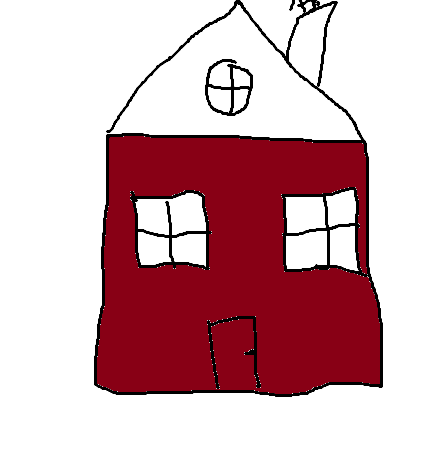
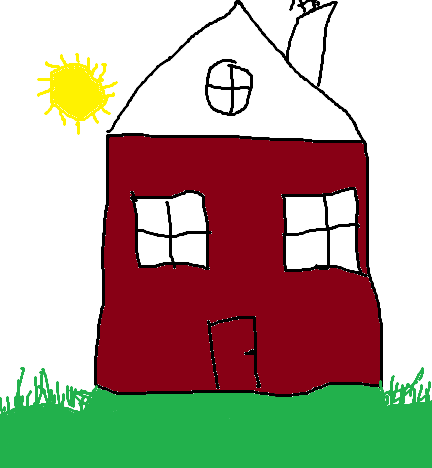
Parandasin vead

Changed region(s): [[0.0, 0.7778, 1.0, 1.0], [0.0903, 0.1197, 0.2708, 0.2692]]

diff --git a/tood/maparea/aken.html b/tood/maparea/aken.html
@@ -13,10 +13,18 @@
 <map name="majakaart">
     <!-- ring -circle coords=x, y, R-->
     <area shape="circle" coords="232,87,50" href="aken.html" alt="aken">
+
     <!-- riskülik rect coords=x, y, x1, y2-->
-<area shape="297,20,335,4" coords="korsten.html" href="" alt="hall korsten">
-<!-- mitu nurga plügoon -poly  coords=x, y, x1, y1, x2, y2-kolmunrk-->
+    <area shape="rect" coords="300,19,333,83" href="korsten.html" alt="korsten">
+
+    <!-- mitu nurga plügoon -poly  coords=x, y, x1, y1, x2, y2-kolmunrk-->
     <area shape="poly" coords="109,133,238,3,161,139" href="katus.html" alt="katus">
+    <!-- riskülik rect coords=x, y, x1, y2-->
+    <area shape="rect" coords="212,327,252,351" href="uks.html" alt="uks">
+
+    <area shape="garss" coords="0,417,430,465" href="muru.html" alt="muru">
+
+    <area shape="sun" coords="79,91,50" href="paike.html" alt="paike">
 </map>
 <div id="selgitus">
     Tänapäeval on aknad tavaliselt klaasitud või kaetud mõne muu läbipaistva materjaliga.[1] Ka lükandosad ja raam viitavad aknale.[2] Paljusid hoonete või sõidukite klaasitud aknaid saab avada, et ruumi ventileerida või sulgeda, et vältida väliseid ilmaolusid. Enamasti on akendel riiv või muu mehhanism, mille abil saab aknaid sulgeda või avada. Sedamööda, kuidas hoonetes on levinud sundventilatsioon, mis võimaldab õhuvahetust akent avamata, on hakatud ehitama ka mitteavanevaid aknaid.

diff --git a/tood/maparea/katus.html b/tood/maparea/katus.html
@@ -13,10 +13,18 @@
 <map name="majakaart">
     <!-- ring -circle coords=x, y, R-->
     <area shape="circle" coords="232,87,50" href="aken.html" alt="aken">
+
     <!-- riskülik rect coords=x, y, x1, y2-->
-<area shape="108,137,364,142" coords="korsten.html" href="" alt="hall korsten">
-<!-- mitu nurga plügoon -poly  coords=x, y, x1, y1, x2, y2-kolmunrk-->
+    <area shape="rect" coords="300,19,333,83" href="korsten.html" alt="korsten">
+
+    <!-- mitu nurga plügoon -poly  coords=x, y, x1, y1, x2, y2-kolmunrk-->
     <area shape="poly" coords="109,133,238,3,161,139" href="katus.html" alt="katus">
+    <!-- riskülik rect coords=x, y, x1, y2-->
+    <area shape="rect" coords="212,327,252,351" href="uks.html" alt="uks">
+
+    <area shape="garss" coords="0,417,430,465" href="muru.html" alt="muru">
+
+    <area shape="sun" coords="79,91,50" href="paike.html" alt="paike">
 </map>
 <div id="selgitus">
     Katus on ehitise ülemine osa, mis koosneb eri materjalidest ja konstruktsioonilistest elementidest ning toetub ehitise seintele ja tugedele. Katuse peamine ülesanne on kaitsta ehitist vihma, lume, päikse, temperatuuri ja tuule eest.[1] Katuse materjal ja kuju oleneb ehitise funktsioonist, materjalide kättesaadavusest, kohalikest ehitustavadest ja arhitektuurilisest disainist. Katuse ehitus on enamasti reguleeritud kohalike või riiklike eeskirjade ja normidega.

diff --git a/tood/maparea/paike.html b/tood/maparea/paike.html
@@ -1,0 +1,33 @@
+<!DOCTYPE html>
+<html lang="et">
+<head>
+  <meta charset="UTF-8">
+  <title>Map area kasutamine</title>
+  <link rel="stylesheet" href="mapStyle.css">
+</head>
+<body>
+<h1>Lehel on kasutatud map area käsud</h1>
+<h2>palun kliki hiirega pildi erineva alale </h2>
+<img src="maja.png" alt="ilus maja" usemap="#majakaart">
+<!-- kasutame map'i (kaart) -->
+<map name="majakaart">
+  <!-- ring -circle coords=x, y, R-->
+  <area shape="circle" coords="232,87,50" href="aken.html" alt="aken">
+
+  <!-- riskülik rect coords=x, y, x1, y2-->
+  <area shape="rect" coords="300,19,333,83" href="korsten.html" alt="korsten">
+
+  <!-- mitu nurga plügoon -poly  coords=x, y, x1, y1, x2, y2-kolmunrk-->
+  <area shape="poly" coords="109,133,238,3,161,139" href="katus.html" alt="katus">
+  <!-- riskülik rect coords=x, y, x1, y2-->
+  <area shape="rect" coords="212,327,252,351" href="uks.html" alt="uks">
+
+  <area shape="rect" coords="0,417,430,465" href="muru.html" alt="muru">
+
+  <area shape="circle" coords="76,89,50" href="paike.html" alt="paike">
+</map>
+<div id="selgitus">
+  Päikesesüsteemi keskmes asuv täht, mis kiirgab valgust ja soojust.
+</div>
+</body>
+</html>

diff --git a/tood/maparea/korsten.html b/tood/maparea/korsten.html
@@ -13,10 +13,18 @@
 <map name="majakaart">
     <!-- ring -circle coords=x, y, R-->
     <area shape="circle" coords="232,87,50" href="aken.html" alt="aken">
+
     <!-- riskülik rect coords=x, y, x1, y2-->
-<area shape="108,137,364,142" coords="korsten.html" href="" alt="hall korsten">
-<!-- mitu nurga plügoon -poly  coords=x, y, x1, y1, x2, y2-kolmunrk-->
+    <area shape="rect" coords="300,19,333,83" href="korsten.html" alt="korsten">
+
+    <!-- mitu nurga plügoon -poly  coords=x, y, x1, y1, x2, y2-kolmunrk-->
     <area shape="poly" coords="109,133,238,3,161,139" href="katus.html" alt="katus">
+    <!-- riskülik rect coords=x, y, x1, y2-->
+    <area shape="rect" coords="212,327,252,351" href="uks.html" alt="uks">
+
+    <area shape="garss" coords="0,417,430,465" href="muru.html" alt="muru">
+
+    <area shape="sun" coords="79,91,50" href="paike.html" alt="paike">
 </map>
 <div id="selgitus">
     Korsten on harilikult torujas ehitis või ehitise torujas osa, millega võidakse tekitada tõmmet ja mille kaudu juhitakse küttekolletest ja tööstusahjudest põlemisel tekkinud suits ja heitgaasid välja (õhku)

diff --git a/tood/maparea/map.html b/tood/maparea/map.html
@@ -15,12 +15,16 @@
     <area shape="circle" coords="232,87,50" href="aken.html" alt="aken">
 
     <!-- riskülik rect coords=x, y, x1, y2-->
-    <area shape="rect" coords="297,33,323,36" href="korsten.html" alt="korsten">
+    <area shape="rect" coords="300,19,333,83" href="korsten.html" alt="korsten">
 
     <!-- mitu nurga plügoon -poly  coords=x, y, x1, y1, x2, y2-kolmunrk-->
     <area shape="poly" coords="109,133,238,3,161,139" href="katus.html" alt="katus">
     <!-- riskülik rect coords=x, y, x1, y2-->
-    <area shape="door" coords="212,327,252,351" href="uks.html" alt="uks">
+    <area shape="rect" coords="212,327,252,351" href="uks.html" alt="uks">
+
+    <area shape="rect" coords="0,417,430,465" href="muru.html" alt="muru">
+
+    <area shape="circle" coords="76,89,50" href="paike.html" alt="paike">
 </map>
 <div id="selgitus">
    Vajuta pildiala peale ja  siia tuleb väike kirjeldus...

diff --git a/tood/maparea/muru.html b/tood/maparea/muru.html
@@ -21,9 +21,13 @@
     <area shape="poly" coords="109,133,238,3,161,139" href="katus.html" alt="katus">
     <!-- riskülik rect coords=x, y, x1, y2-->
     <area shape="rect" coords="212,327,252,351" href="uks.html" alt="uks">
+
+    <area shape="garss" coords="0,417,430,465" href="muru.html" alt="muru">
+
+    <area shape="sun" coords="79,91,50" href="paike.html" alt="paike">
 </map>
 <div id="selgitus">
-    Uks on tarind, mille abil saab hoonesse või ruumi sissepääsu ja sellest väljapääsu võimaldamiseks mõeldud ava sulgeda. Selleks asetatakse uks nii, et ta sisse- ja väljapääsuava tihedalt kataks.
+    Muru on tihe ja madal heintaimedest koosnev ja sageli niidetav ühtlane taimkate. Muru on üks aedade ja parkide levinumaid haljastuselemente. Muru kasutatakse ka mitmesuguste spordiväljakute kattena.
 </div>
 </body>
 </html>

diff --git a/Tehtud.html b/Tehtud.html
@@ -37,15 +37,15 @@
     <section id="osa4">
 <h2>Tunnis tehtud tööd</h2>
         <div>
-            <a href="">1. kursuse WP leht</a>
+            <a href="">kursuse WP leht</a>
         </div>
-    <a href="Kujundus2/index.html">2. Leht teise kujundusega</a>
+    <a href="Kujundus2/index.html">Leht teise kujundusega</a>
         <br>
-    <a href="tood/tabelid.html">3. Tabelid</a>
+    <a href="tood/tabelid.html">Tabelid</a>
         <br>
-    <a href="tood/maparea/map.html">4. map area pildikaart</a>
+    <a href="tood/maparea/map.html">map area pildikaart</a>
         <br>
-    <a href="tood/vormid/ankeet.html">5. Ankeet / HTML vormid</a>
+    <a href="tood/vormid/ankeet.html">Ankeet / HTML vormid</a>
         <br>
     </section>
     <section>

diff --git a/tood/vormid/ankeet.html b/tood/vormid/ankeet.html
@@ -125,16 +125,10 @@
         </tr>
         <tr>
             <td>
-                <label for="raadio">Mis raadio sa parem kuulaksid trenni ajal?</label>
+                <label for="file">Saada enda poksi pasporti pilt:</label>
             </td>
             <td>
-                <select name="raadio" id="raadio">
-                    <option value="vali">Vali...</option>
-                    <option value="eestifmraadio">EestiFM</option>
-                    <option value="startfm">StarFM</option>
-                    <option value="skyplus">SKYplus</option>
-                    <option value="retrofm">RetroFM</option>
-                </select>
+                <input type="file">
             </td>
         </tr>
         <tr>

diff --git a/style.css b/style.css
@@ -7,7 +7,7 @@ h1{
 
 header {
     padding: 5%;
-    background-color: black;
+    background-color: white;
     border-left: 3px solid mediumvioletred;
     border-bottom: 3px solid mediumvioletred;
     border-radius: 0 0 0 60px;

diff --git a/tood/maparea/mapStyle.css b/tood/maparea/mapStyle.css
@@ -3,7 +3,7 @@ div#selgitus{
     width: 30%;
     position: absolute;
     top: 150px;
-    left: 400px;
+    left: 500px;
 }
 img{
     border: 5px solid lightgray;
